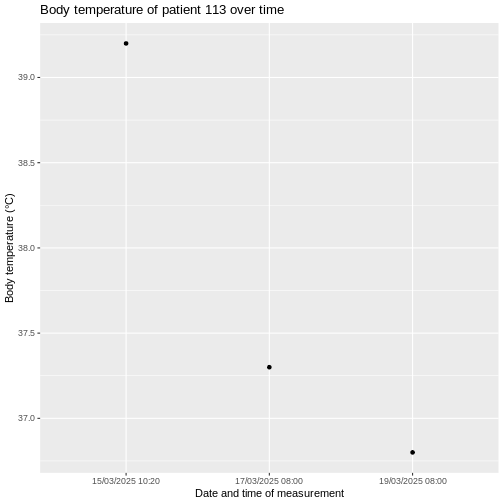
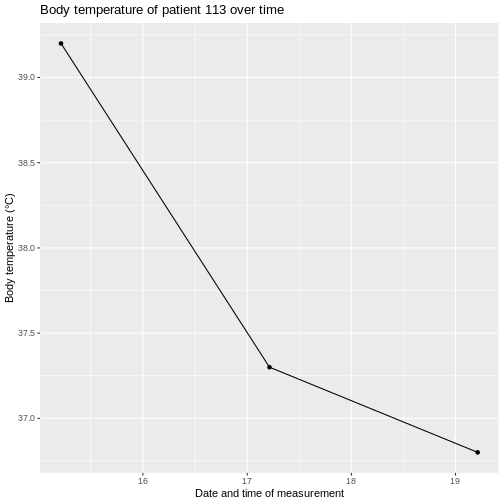
markdown source builds
Auto-generated via `{sandpaper}`
Source  : b9d7d49e64f71f155f3afc6f5aa0aa3e16426435
Branch  : lesson-development
Author  : Sarah Keating <s.keating@ucl.ac.uk>
Time    : 2026-02-13 12:23:11 +0000
Message : Merge pull request #80 from SAFEHR-data/sk/updates

dates and times lesson

diff --git a/08_dates_and_times.md b/08_dates_and_times.md
@@ -6,13 +6,19 @@ exercises: 0
 
 :::::::::::::::::::::::::::::::::::::: questions 
 
-- What
+- What is the duration of an event?
+
+- How can I view trends in measurements?:
 
 ::::::::::::::::::::::::::::::::::::::::::::::::
 
 ::::::::::::::::::::::::::::::::::::: objectives
 
-- 1
+- Know that dates and times are used in most tables in the OMOP CDM to record when events happened.
+
+- Understand that dates and times are often used in pairs to record the start and end of an event, which allows us to calculate the duration of that event.
+
+- Know how to convert a date or datetime string to a date or datetime object in R.
 
 ::::::::::::::::::::::::::::::::::::::::::::::::
 
@@ -85,7 +91,7 @@ get_concept_id <- function(name) {
 
 # Dates and times in OMOP
 
-Dates and times are used in most tables to record when events happened,usually where they start and end date recorded. In many places there is also a time component, for example to record the time of day when a measurement was taken. Column names are frequently either suffixed with `_date` or `_datetime` to indicate whether they contain just a date or both date and time information.
+Dates and times are used in most tables to record when events happened,usually with the start and end date recorded. In many places there is also a time component, for example to record the time of day when a measurement was taken. Column names are frequently either suffixed with `_date` or `_datetime` to indicate whether they contain just a date or both date and time information.
 
 However in our dataset dates and times are recorded as strings rather than as date or datetime objects. This is because the parquet files don't have a standard way to store date and datetime objects, so they are stored as strings in the format "YYYY-MM-DD" for dates and "YYYY-MM-DD HH:MM:SS" for datetimes. When we read the data into R, we can convert these strings to date or datetime objects using the `as.Date()` or `as.POSIXct()` functions, respectively. This will allow us to perform date and time calculations and visualizations more easily.
 
@@ -93,41 +99,37 @@ Usually the dates come in pairs, for example `condition_start_date` and `conditi
 
 ::::::::::::::::::::::::::::::::::::::::::::::::::: challenge
 
-Using the `condition_occurrence` table, find the average duration of conditions in this dataset.
+Using the `condition_occurrence` table, display the length of duration in days for each condition and find the average duration of conditions in this dataset.
 
 ::::::::::::::::::::::::::::::::::::::::::::::::::: solution
 
 ``` r
-# First we need to read in the condition_occurrence table
+# First we need to read in the condition_occurrence table with only the columns we need to worry about and collect the data into memory
 condition_occurrence <- omop$public$condition_occurrence |>
+  select(condition_occurrence_id, condition_start_date, condition_end_date) |>
     collect()
 # Then we need to exclude any rows where the end date is missing, as we can't calculate the duration for these
 condition_occurrence <- condition_occurrence |>
-    filter(!is.na(condition_end_date))
-# Now we can calculate the duration of each condition by taking the difference between the end date and the start date
-
-# TWO DO:fix this
+    filter(!is.na(condition_end_date) & condition_end_date != "NULL")
+# First we change the strings to actual dates and then we can calculate the length of each condition in days by taking the difference between the end date and the start date. We add 1 to include both the start and end date in the duration calculation.
 condition_occurrence <- condition_occurrence |>
-  mutate(condition_duration = as.numeric(as.Date.numeric(condition_end_date) - as.Date.numeric(condition_start_date)))
-```
-
-``` error
-Error in `mutate()`:
-ℹ In argument: `condition_duration =
-  as.numeric(as.Date.numeric(condition_end_date) -
-  as.Date.numeric(condition_start_date))`.
-Caused by error in `unclass(x) * 86400`:
-! non-numeric argument to binary operator
-```
-
-``` r
-average_duration <- mean(condition_occurrence$condition_duration, na.rm = TRUE)
+  mutate(
+    across(c(condition_start_date, condition_end_date), ~ as.Date(.x, format = "%d/%m/%Y")),
+    length_days_inclusive = as.integer(condition_end_date - condition_start_date) + 1L
+  )
+# Finally we can calculate the average duration of conditions in this dataset, excluding any missing values
+average_duration <- mean(condition_occurrence$length_days_inclusive, na.rm = TRUE)
 average_duration
 ```
 
 ``` output
-[1] NA
+[1] 3.178571
 ```
+
+***Answer:*** The average duration of conditions in this dataset is approximately 3.2 days.
+
+**CODING NOTE:** In the code above, we first read in the `condition_occurrence` table and selected only the relevant columns. We then filtered out any rows where the `condition_end_date` was missing, as we cannot calculate the duration for these conditions. Next, we converted the `condition_start_date` and `condition_end_date` from strings to date objects using the `as.Date()` function. We then calculated the length of each condition in days by taking the difference between the end date and the start date and adding 1 to include both the start and end date in the duration calculation. Finally, we calculated the average duration of conditions in this dataset by taking the mean of the `length_days_inclusive` column, excluding any missing values.
+We use the `across()` function from the `dplyr` package to apply the `as.Date()` function to both the `condition_start_date` and `condition_end_date` columns in a single step. The `format = "%d/%m/%Y"` argument specifies the format of the date strings in our dataset, which is day/month/year. If your dataset uses a different date format, you may need to adjust this argument accordingly.
 ::::::::::::::::::::::::::::::::::::::::::::::::::
 ::::::::::::::::::::::::::::::::::::::::::::::::
 
@@ -159,16 +161,27 @@ get_concept_id("Body temperature")
 measurement <- omop$public$measurement |>
     filter(person_id == 1113 & measurement_concept_id == 3020891) |>
     collect()
-# Now we can plot the body temperature over time
-ggplot(measurement, aes(x = measurement_datetime, y = value_as_number)) +
-    geom_line() +
-    geom_point() +
-    labs(title = "Body temperature of patient 113 over time",
-         x = "Date and time of measurement",
-         y = "Body temperature (°C)")
+# The measurement_datetime column is currently a string, so we need to convert it to a datetime object. We also need to convert the value_as_number column to a numeric type so that we can plot it. Finally we arrange the data by datetime just to make sure it's in the right order for plotting.
+measurement2 <- measurement %>%
+  mutate(
+    measurement_datetime = as.POSIXct(measurement_datetime, tz = "Europe/London"),
+    value_as_number = as.numeric(value_as_number)
+  ) %>%
+  arrange(measurement_datetime)
+
+ggplot(measurement2, aes(x = measurement_datetime, y = value_as_number, group = 1)) +
+  geom_point() +
+  geom_line() +
+  labs(
+    title = "Body temperature of patient 113 over time",
+    x = "Date and time of measurement",
+    y = "Body temperature (°C)"
+  )
 ```
 
 <img src="fig/08_dates_and_times-rendered-unnamed-chunk-7-1.png" style="display: block; margin: auto;" />
+
+**CODING NOTE**: In the code above, we first used the `get_concept_id()` function to find the concept ID for "Body temperature". We then read in the `measurement` table and filtered for measurements of patient `113` with the relevant concept ID. We collected this data into memory and then converted the `measurement_datetime` column from a string to a datetime object using the `as.POSIXct()` function. We also converted the `value_as_number` column to a numeric type so that we could plot it. Finally, we arranged the data by datetime and created a line plot of body temperature over time using `ggplot2`.
 ::::::::::::::::::::::::::::::::::::::::::::::::::
 ::::::::::::::::::::::::::::::::::::::::::::::::
 
